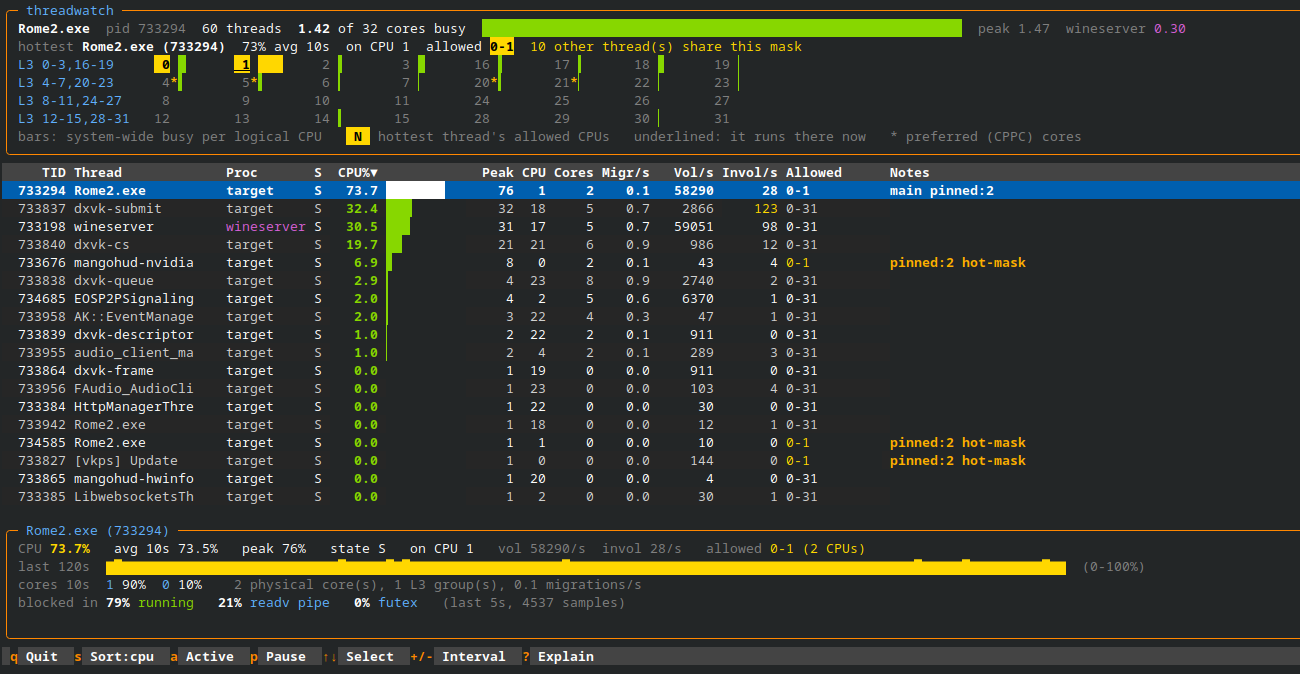
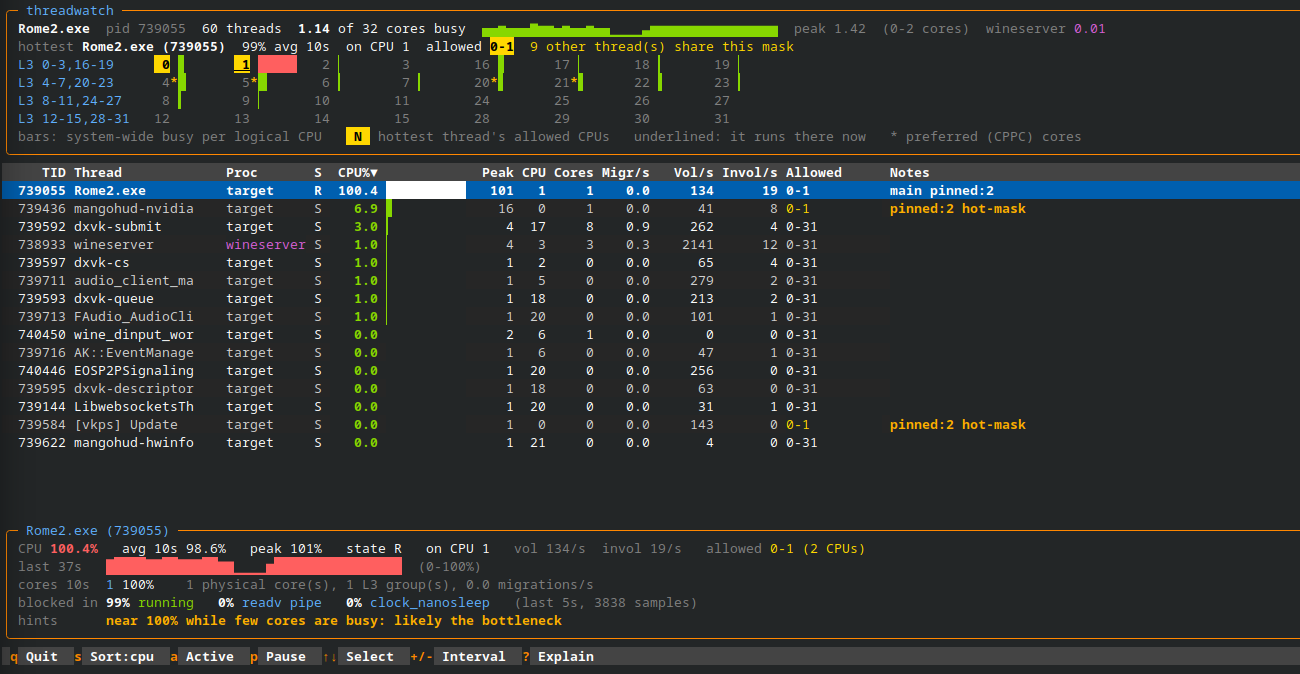
README: update the threadwatch top screenshot
New capture with the fixed-scale cores-busy graph and the bottleneck hint.

diff --git a/README.md b/README.md
@@ -12,8 +12,9 @@ Part of a small toolkit for investigating Linux gaming performance:
 
 ![threadwatch top following Total War: ROME II under Proton](docs/top-rome2.png)
 
-*`threadwatch top` on Total War: ROME II under Proton: the main thread is pinned to CPUs 0-1, and
-MangoHud's thread inherited that mask (`hot-mask`), so it competes with the main thread for those two CPUs.*
+*`threadwatch top` on Total War: ROME II under Proton: the main thread runs at 100% of one core while
+only ~1.1 cores are busy overall, it is pinned to CPUs 0-1, and MangoHud's thread inherited that mask
+(`hot-mask`), so it competes with the main thread for those two CPUs.*
 
 ## Why
 
